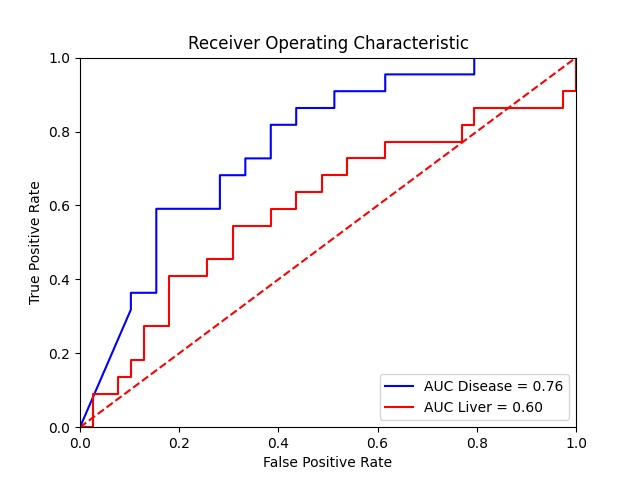
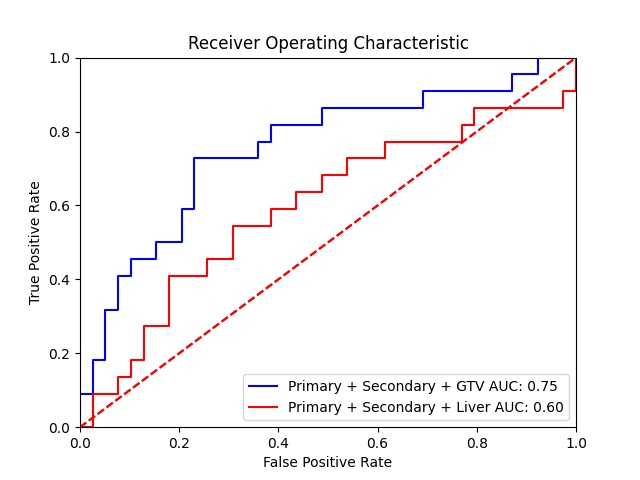
run new attempts

diff --git a/Outcome_Analysis/MainDeepLearning.py b/Outcome_Analysis/MainDeepLearning.py
@@ -78,7 +78,10 @@ if view_results_with_r:
     base_path, morfeus_drive, excel_path = return_paths()
     df = pd.read_excel(excel_path, engine='openpyxl')
     # df = df.dropna()
-    df = df[(~pd.isnull(df['epoch_loss'])) & (df['Optimizer'] == 'Adam') & (df['loss'] == 'CosineLoss') & (df['run?'] == -6)]
+    df = df[
+        (~pd.isnull(df['epoch_loss'])) & (df['Optimizer'] == 'Adam') & (df['loss'] == 'CosineLoss') & (df['run?'] == -6)
+        & (df['Model_Type'] == 5)
+            ]
     # df.epoch_loss = np.where((df.epoch_AUC < .51), 1, df.epoch_loss)
     # df.epoch_loss = np.where((df.epoch_loss > .6), .6, df.epoch_loss)
     xxx = 1
@@ -92,7 +95,7 @@ if view_results_with_r:
                      'num_dense_connections', 'filters', 'growth_rate']:
         xxx = 1
         (ggplot(df) + aes(x='{}'.format(variable), y='epoch_loss') + geom_point(mapping=aes(color='epoch_AUC')) +
-         facet_wrap('Model_Type', labeller='label_both') +
+         #facet_wrap('Model_Type', labeller='label_both') +
          xlab('{}'.format(variable)) + ylab('Validation Loss') + scale_y_log10()
          + scale_colour_gradient(low='blue', high='red'))
 """
@@ -140,14 +143,14 @@ if evaluate_model:
     from tensorflow.keras import metrics, optimizers
 
     aucs = []
-    parameters = {994: {'Dropout': 0., 'blocks_in_dense': 7, 'dense_conv_blocks': 3, 'dense_layers': 1, 'reduction': 1,
-                        'num_dense_connections': 256, 'filters': 16, 'global_max': 0, 'growth_rate': 32, 'channels': 3,
-                        'model_key': 5, 'color': 'b', 'description': 'Disease'},
+    parameters = {1431: {'Dropout': 0., 'blocks_in_dense': 1, 'dense_conv_blocks': 1, 'dense_layers': 2, 'reduction': 1,
+                        'num_dense_connections': 256, 'filters': 16, 'global_max': 1, 'growth_rate': 16, 'channels': 3,
+                        'model_key': 5, 'color': 'b', 'description': 'Primary + Secondary + GTV'},
                   # 961: {'Dropout': 0.5, 'blocks_in_dense': 5, 'dense_conv_blocks': 3, 'dense_layers': 1,
                   #       'reduction': 0.5, 'model_key': 3,
                   #       'num_dense_connections': 128, 'filters': 16, 'global_max': 0, 'growth_rate': 32, 'channels': 2},
                   962: {'Dropout': 0, 'blocks_in_dense': 5, 'dense_conv_blocks': 3, 'dense_layers': 3,
-                        'reduction': 1., 'model_key': 4, 'color': 'r', 'description': 'Liver',
+                        'reduction': 1., 'model_key': 4, 'color': 'r', 'description': 'Primary + Secondary + Liver',
                         'num_dense_connections': 256, 'filters': 16, 'global_max': 0, 'growth_rate': 32, 'channels': 3}
                   }
     for model_index in parameters:
@@ -214,7 +217,7 @@ if evaluate_model:
             plt.title('Receiver Operating Characteristic')
             desc = model_parameters['description']
             color = model_parameters['color']
-            plt.plot(fpr, tpr, color, label='AUC {} = %0.2f'.format(desc) % roc_auc)
+            plt.plot(fpr, tpr, color, label='{} AUC: %0.2f'.format(desc) % roc_auc)
             plt.legend(loc='lower right')
             plt.plot([0, 1], [0, 1], 'r--')
             plt.xlim([0, 1])

diff --git a/Outcome_Analysis/DeepLearningTools/Run2DModel.py b/Outcome_Analysis/DeepLearningTools/Run2DModel.py
@@ -27,7 +27,9 @@ def run_2d_model(batch_size=24, model_type=3):
     base_df.set_index('Model_Index')
     potentially_not_run = base_df.loc[pd.isnull(base_df.Iteration) & ~pd.isnull(base_df.min_lr)
                                       & (base_df['Optimizer'] == 'Adam') & (base_df['loss'] == 'CosineLoss')
-                                      & (base_df['run?'] == -6) & (base_df['Model_Type'] == model_type)
+                                      & (base_df['run?'] == -6)
+                                      #& (base_df['Model_Type'] == model_type)
+                                      & (base_df['step_factor'] >= 2000)
                                       ]
     indexes_for_not_run = potentially_not_run.index.values
     np.random.shuffle(indexes_for_not_run)

diff --git a/Outcome_Analysis/DeepLearningTools/AddMetricsToExcel.py b/Outcome_Analysis/DeepLearningTools/AddMetricsToExcel.py
@@ -12,9 +12,9 @@ def add_metrics_to_excel():
     base_path, morfeus_drive, excel_path = return_paths()
     df = pd.read_excel(excel_path, engine='openpyxl')
     not_filled_df = df.loc[
-        (~pd.isnull(df['min_lr'])) & (~pd.isnull(df['Iteration'])) & (~pd.isnull(df['epoch_loss']))# & (df['run?'] == -6)
+        (~pd.isnull(df['min_lr'])) & (~pd.isnull(df['Iteration'])) & (pd.isnull(df['epoch_loss'])) & (df['run?'] == -6)
         ]
-    for key in [3, 4, 5, 6]:
+    for key in [5]:
         df.set_index('Model_Index', inplace=True)
         print(key)
         path_base = os.path.join(morfeus_drive, 'Tensorflow', 'Model_Key_{}'.format(key))
